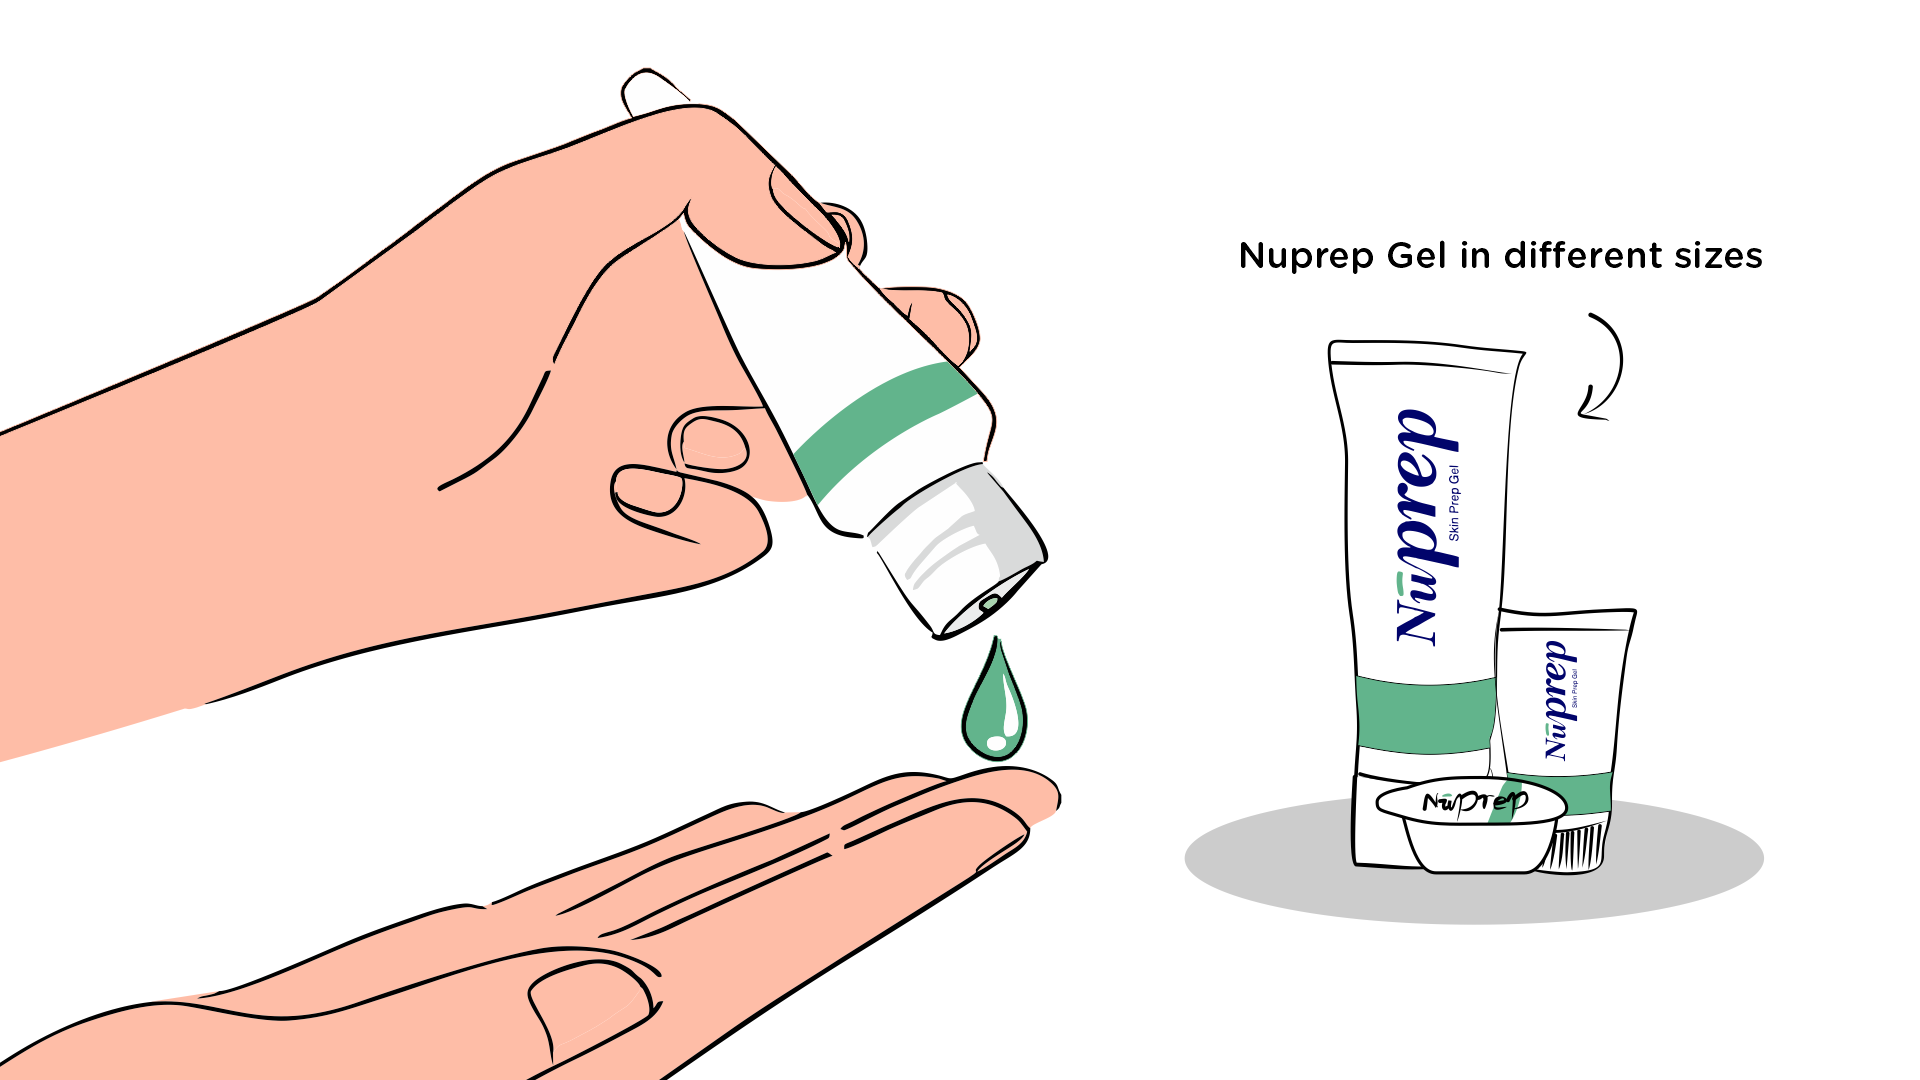
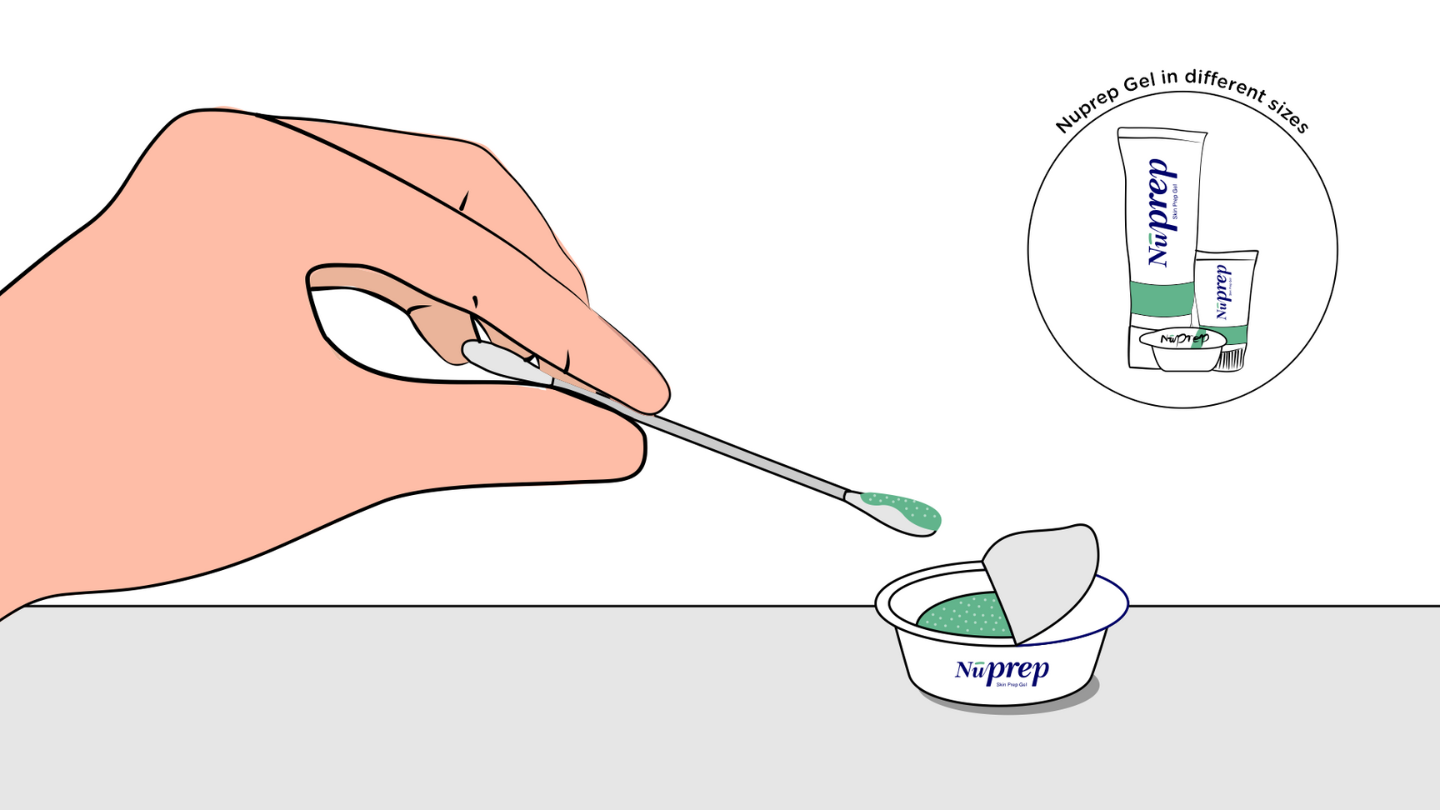
Update skin prep guide content

diff --git a/guides/usage-guides/skin-preparation/index.rst b/guides/usage-guides/skin-preparation/index.rst
@@ -8,25 +8,34 @@ Why skin preparation is important?
 
 Proper skin preparation is crucial before recording any biopotential signal be it Electrocardiography (ECG), Electromyography (EMG), Electroencephalography (EEG), or Electrooculography (EOG).
 
-- ``Clear recording surface`` Removes dead skin cells, oils, & other substances that increases skin impedance.
+- ``Clean skin surface`` Removes dead skin cells, oils, & other substances that increases skin impedance.
 - ``Improve impedance`` Improves the conduction of electrical signals from the body to the recording equipment and minimizes impedance.
 - ``Electrode-skin contact`` Ensures optimal contact between the electrodes and the skin surface.
 - ``Signal quality`` Enhances the overall quality of recorded signals, providing clear & reliable data for analysis & improves the ability to capture subtle variations in biopotential signals.
 - ``Consistency in recordings`` Reduces variability in signal quality, making it easier to make any Human-Computer Interface (HCI), Brain-Computer Interface (BCI) project or a real-world application.
 - ``Long term adhesion`` Facilitates long-term adhesion & stable placement of electrodes to the skin during extended signal monitoring.
 
-Requirements
+Kit Contents
 **************
 
+.. _Nuprep gel: https://store.upsidedownlabs.tech/product/nuprep-gel/
+.. _Electrode gel: https://store.upsidedownlabs.tech/product/electrode-gel/
+.. _Ten20 paste: https://store.upsidedownlabs.tech/product/ten20-paste/
+
 +-------------------------------------+-------------------------------------------------------------------------------------------------------------------------------------------------------------------------------------------------------+
-| **NuPrep Gel**                      | Mildly abrasive, highly conductive gel that should be applied before placing the electrodes on the skin to improve signal quality & enhances the performance of monitoring electrodes.                |
+| `Nuprep gel`_                       | Mildly abrasive, highly conductive gel that should be applied before placing the electrodes on the skin to improve signal quality & enhances the performance of monitoring electrodes.                |
 +-------------------------------------+-------------------------------------------------------------------------------------------------------------------------------------------------------------------------------------------------------+
-| **Electrode Gel**                   | Highly conductive gel that acts as a coupling agent between electrodes and the skin to aid the transmission of biopotential signals like ECG, EMG, EOG, or EEG.                                       |
+| `Electrode Gel`_                    | Highly conductive gel that acts as a coupling agent between electrodes and the skin to aid the transmission of biopotential signals like ECG, EMG, EOG, or EEG.                                       |
 +-------------------------------------+-------------------------------------------------------------------------------------------------------------------------------------------------------------------------------------------------------+
-| **Ten20 Paste**                     | Contains the right balance of adhesiveness and conductivity, enabling the dry electrodes to remain in place while allowing the transmittance of biopotential signals.                                 |
+| `Ten20 paste`_                      | Contains the right balance of adhesiveness and conductivity, enabling the dry electrodes to remain in place while allowing the transmittance of biopotential signals.                                 |
 +-------------------------------------+-------------------------------------------------------------------------------------------------------------------------------------------------------------------------------------------------------+
-| **Alcohol Swabs/Wet wipes**         | Soft & non-woven pads that helps in cleaning the skin surface and does not leave any residue.                                                                                                         |
+| Alcohol Swabs/Wet wipes             | Soft & non-woven pads that helps in cleaning the skin surface and does not leave any residue.                                                                                                         |
 +-------------------------------------+-------------------------------------------------------------------------------------------------------------------------------------------------------------------------------------------------------+
+| Cotton Swabs                        | Useful while applying nuprep gel or ten20 paste.                                                                                                                                                      |
++-------------------------------------+-------------------------------------------------------------------------------------------------------------------------------------------------------------------------------------------------------+
+
+.. figure:: media/kit-contents.*
+    :align: center
 
 Steps to follow
 *****************
@@ -36,52 +45,85 @@ You can follow the steps given below to do the skin preparation properly:
 Step 1: Identify the targeted area
 =====================================
 
-Identify the target area where the gel electrodes will be placed for recording ECG, EMG, EEG, or EOG.
+Identify the target area where the gel electrodes or BioAmp Bands will be placed for recording the biopotential signals.
 
-.. image:: media/skin-prep-eog.*
+.. figure:: media/skin-prep-eog.*
+    :align: center
 
-.. image:: media/skin-prep-emg.*
+    Target area to record EOG
 
-.. image:: media/skin-prep-ecg.*
+.. figure:: media/skin-prep-emg.*
+    :align: center
 
-.. image:: media/skin-prep-eeg.*
+    Target area to record EMG
 
-Step 2: Apply the gel
-======================
+.. figure:: media/skin-prep-ecg.*
+    :align: center
 
-Apply a drop of NuPrep gel to your targeted area where the electrodes will be placed.
+    Target area to record ECG
 
-.. image:: media/step-2.*
+.. figure:: media/skin-prep-eeg.*
+    :align: center
 
-Step 3
-=======
+    Target area to record EEG
+
+Step 2: Apply NuPrep gel
+==========================
+
+Take a small amount of NuPrep gel using a cotton swab and apply it on your targeted area.
+
+.. figure:: media/step-2.*
+
+Step 3: Clean the skin surface
+===============================
 
 Use gentle, circular motions to rub the gel on the skin surface. This removes all the dead skin cells & improves conductivity.
 
+.. figure:: media/step-3.*
+
 .. warning:: Do not rub the gel for too long as it has abrasive properties and may cause skin redness and irritation.
 
-Step 4
-========
+Step 4: Wipe off the gel
+===================================
 
-Wipe away excess gel with the alcohol swabs or wet wipes.
+Wipe away excess gel with alcohol swabs or wet wipes.
+
+.. figure:: media/step-4.*
 
 .. warning:: Close your eyes while using the alcohol swabs for EOG recording else it may cause eye redness & irritation.
 
-Step 5
-========
+Step 5: Measuring the signals
+=================================
 
-Now you can either use gel electrodes or the BioAmp bands for the signal recording.
+Now you can either use gel electrodes or BioAmp bands for the signal recording.
 
 Using gel electrodes
 ----------------------
 
-  Connect the BioAmp cable to gel electrodes, peel the plastic backing from electrodes and place the IN+, IN-, REF cables according to your specific biopotential recording.
+Connect the BioAmp cable to gel electrodes, peel the plastic backing from electrodes and place the IN+, IN-, REF cables according to your specific biopotential recording.
+
+.. figure:: media/step-5a.*
+    :align: center
+
+.. note:: While placing the gel electrodes on the skin, make sure to place the non-sticky tab of the electrode in the direction opposite to your hair growth. This allows you to remove the electrodes easily without pulling off much body hair.
 
 Using BioAmp bands
 ----------------------
 
-  Connect the BioAmp cable to your BioAmp band. Now apply a small amount of electrode gel or Ten20 conductive paste on the dry electrodes between the skin and metallic part of BioAmp cable. This improves the signal conductivity, enhancing overall signal quality.
+Connect the BioAmp cable to your BioAmp band. Now apply a small amount of ``electrode gel`` or ``Ten20 conductive paste`` on the dry electrodes between the skin and metallic part of BioAmp cable. This improves the signal conductivity, enhancing overall signal quality.
+
+.. figure:: media/step-5b.*
+    :align: center
+
+    Method 1: Using Electrode gel
+
+.. figure:: media/step-5c.*
+    :align: center
+
+    Method 2: Using Ten20 paste
+
+.. note:: The above graphics demonstrates the use of electrode gel/Ten20 paste with Muscle BioAmp Band. Similarly you can use Brain BioAmp Band and Heart BioAmp Band. Refer to :ref:`using-bioamp-bands` guide to assemble and use all the BioAmp Bands correctly.
 
 Now you are all set! Make all the connections correctly and start recording your biopotential signals.
 
-.. note:: NuPrep gel, Ten20 paste and the alcohol swabs shouldn't be used if you have a history of skin allergies to lotions and cosmetics.
+.. warning:: NuPrep gel, Ten20 paste and the alcohol swabs shouldn't be used if you have a history of skin allergies to lotions and cosmetics.
